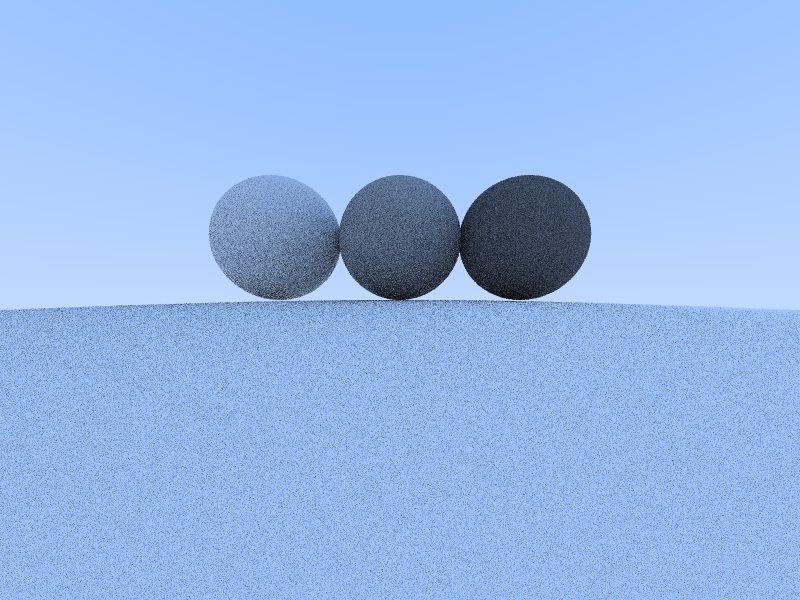
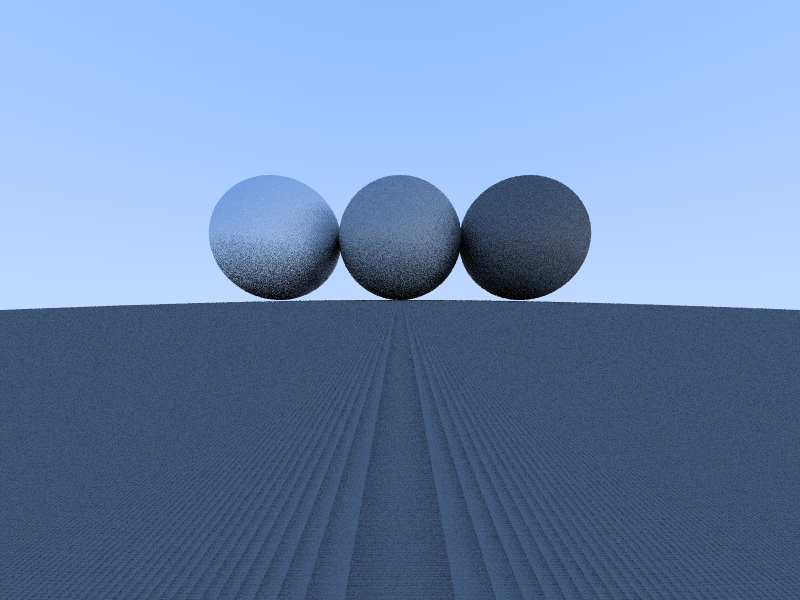
Correct camera position

diff --git a/raytrace.html b/raytrace.html
@@ -22,8 +22,10 @@
 <img src="v07.png">
 <h3>Add diffusion</h3>
 <img src="v08.png">
-<h3>Reduce diffusion constants</h3>
-<img src="v09.png">
 <h3>Make diffusion more directional (Lambertian diffusion)</h3>
+<img src="v09.png">
+<h3>Increase (10x) random samples per pixel</h3>
 <img src="v10.png">
+<h3>Shift camera slightly to not intersect the ground</h3>
+<img src="v11.png">
 

diff --git a/raytrace.c b/raytrace.c
@@ -130,8 +130,8 @@ static ray get_ray(int w, int h, int x, int y) {
 
 static void render(world here, int w, int h)
 {
-  int samples_per_pixel = 10;
-  int max_bounces = 10;
+  int samples_per_pixel = 100;
+  int max_bounces = 50;
 
   output_header(w, h);
   for (int i = 0; i < h; i++)
@@ -147,10 +147,10 @@ static void render(world here, int w, int h)
 
 int main(int argc, char **argv) {
   sphere ss[4] = { 
-    { .ma = { .co = {0, .5, 0}, .absorbtion = 0.5 }, .r = 100, .cp = {0, -100, 5} }, // Ground
-    { .ma = { .co = {.5, 0, 0}, .absorbtion = 0.1 }, .r = 1, .cp = {-2, 1, 5} }, // Sphere 1
-    { .ma = { .co = {0, .5, 0}, .absorbtion = 0.3 }, .r = 1, .cp = {0, 1, 5} }, // Sphere 2
-    { .ma = { .co = {0, 0, .5}, .absorbtion = 0.5 }, .r = 1, .cp = {2, 1, 5} }, // Sphere 3
+    { .ma = { .co = {0, .5, 0}, .absorbtion = 0.5 }, .r = 100, .cp = {0, -101, 5} }, // Ground
+    { .ma = { .co = {.5, 0, 0}, .absorbtion = 0.1 }, .r = 1, .cp = {-2, 0, 5} }, // Sphere 1
+    { .ma = { .co = {0, .5, 0}, .absorbtion = 0.3 }, .r = 1, .cp = {0, 0, 5} }, // Sphere 2
+    { .ma = { .co = {0, 0, .5}, .absorbtion = 0.5 }, .r = 1, .cp = {2, 0, 5} }, // Sphere 3
   };
   world here = { ss, 4 };
   render(here, 800, 600);
